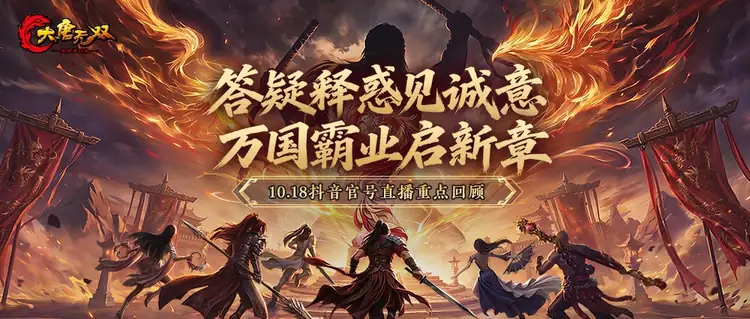
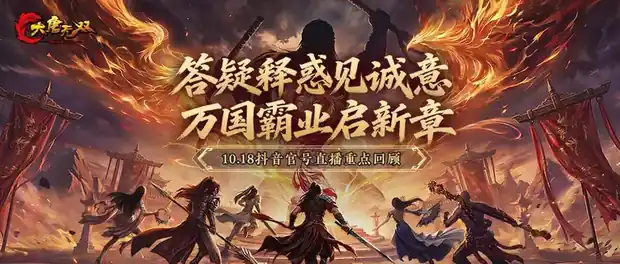
Shrink social visual assets and add version key visuals

diff --git a/portfolio/brand.html b/portfolio/brand.html
@@ -258,21 +258,39 @@
         </div>
 
         <section class="koc-published">
-          <div class="assets-head"><h2>视觉物料</h2><span>官网焦点图 / 直播回顾 / 赛事主视觉</span></div>
+          <div class="assets-head"><h2>视觉物料</h2><span>官网焦点图 / 版本公告 / 直播福利 / 赛事主视觉</span></div>
           <div class="social-posters">
-            <figure class="poster-item wide">
+            <figure class="poster-item">
               <a href="../assets/img/keyvisual-official.webp" data-lightbox data-caption="官网焦点图">
                 <img src="../assets/img/keyvisual-official.webp" alt="大唐无双 10 月新大区打卡就领黄金图官网焦点图"  loading="lazy" decoding="async" />
               </a>
               <figcaption>官网焦点图：10 月新大区「打卡就领黄金图」</figcaption>
             </figure>
-            <figure class="poster-item wide">
+            <figure class="poster-item">
+              <a href="../assets/img/visual-datang-halloween.webp" data-lightbox data-caption="万圣节版本更新公告">
+                <img src="../assets/img/visual-datang-halloween.webp" alt="大唐无双万圣节版本更新公告视觉物料"  loading="lazy" decoding="async" />
+              </a>
+              <figcaption>万圣节版本公告：节日场景 × 角色主视觉</figcaption>
+            </figure>
+            <figure class="poster-item">
+              <a href="../assets/img/visual-datang-midautumn.webp" data-lightbox data-caption="中秋版本更新公告">
+                <img src="../assets/img/visual-datang-midautumn.webp" alt="大唐无双中秋版本更新公告视觉物料"  loading="lazy" decoding="async" />
+              </a>
+              <figcaption>中秋版本公告：月夜场景 × 角色主视觉</figcaption>
+            </figure>
+            <figure class="poster-item">
+              <a href="../assets/img/visual-datang-double11.webp" data-lightbox data-caption="双十一直播福利节">
+                <img src="../assets/img/visual-datang-double11.webp" alt="大唐无双双十一直播福利节视觉物料"  loading="lazy" decoding="async" />
+              </a>
+              <figcaption>双十一直播福利节：限定道具 × 直播福利</figcaption>
+            </figure>
+            <figure class="poster-item">
               <a href="../assets/img/keyvisual-douyin.webp" data-lightbox data-caption="抖音直播回顾">
                 <img src="../assets/img/keyvisual-douyin.webp" alt="万国霸业启新章 10.18 抖音官号直播重点回顾"  loading="lazy" decoding="async" />
               </a>
               <figcaption>抖音直播回顾：10.18 万国霸业答疑</figcaption>
             </figure>
-            <figure class="poster-item wide">
+            <figure class="poster-item">
               <a href="../assets/img/social-final-cover.webp" data-lightbox data-caption="线下总决赛主视觉">
                 <img src="../assets/img/social-final-cover.webp" alt="大唐无双潜龙争霸赛 5V5 线下总决赛主视觉"  loading="lazy" decoding="async" />
               </a>

diff --git a/assets/css/style.css b/assets/css/style.css
@@ -1217,8 +1217,8 @@ textarea {
 
 .social-posters {
   display: grid;
-  grid-template-columns: repeat(2, minmax(0, 1fr));
-  gap: 20px;
+  grid-template-columns: repeat(3, minmax(0, 1fr));
+  gap: 16px;
   align-items: start;
   margin-top: 14px;
 }
@@ -1230,21 +1230,26 @@ textarea {
   box-shadow: none;
 }
 
-.poster-item.wide {
-  grid-column: 1 / -1;
-}
-
 .poster-item a {
   display: block;
-  height: auto;
+  aspect-ratio: 1.9;
+  overflow: hidden;
   padding: 0;
+  background: #0d0d0d;
+  border: 1px solid var(--line);
 }
 
 .poster-item img {
   display: block;
   width: 100%;
-  height: auto;
+  height: 100%;
+  object-fit: contain;
   max-height: none;
+  transition: opacity 180ms ease;
+}
+
+.poster-item a:hover img {
+  opacity: 0.86;
 }
 
 .poster-item figcaption {
@@ -2852,7 +2857,7 @@ textarea {
   }
 
   .social-posters {
-    grid-template-columns: 1fr;
+    grid-template-columns: repeat(2, minmax(0, 1fr));
   }
 
   .poster-item a {
@@ -3131,6 +3136,10 @@ textarea {
 
 @media (max-width: 560px) {
   .koc-steps {
+    grid-template-columns: 1fr;
+  }
+
+  .social-posters {
     grid-template-columns: 1fr;
   }
 }
